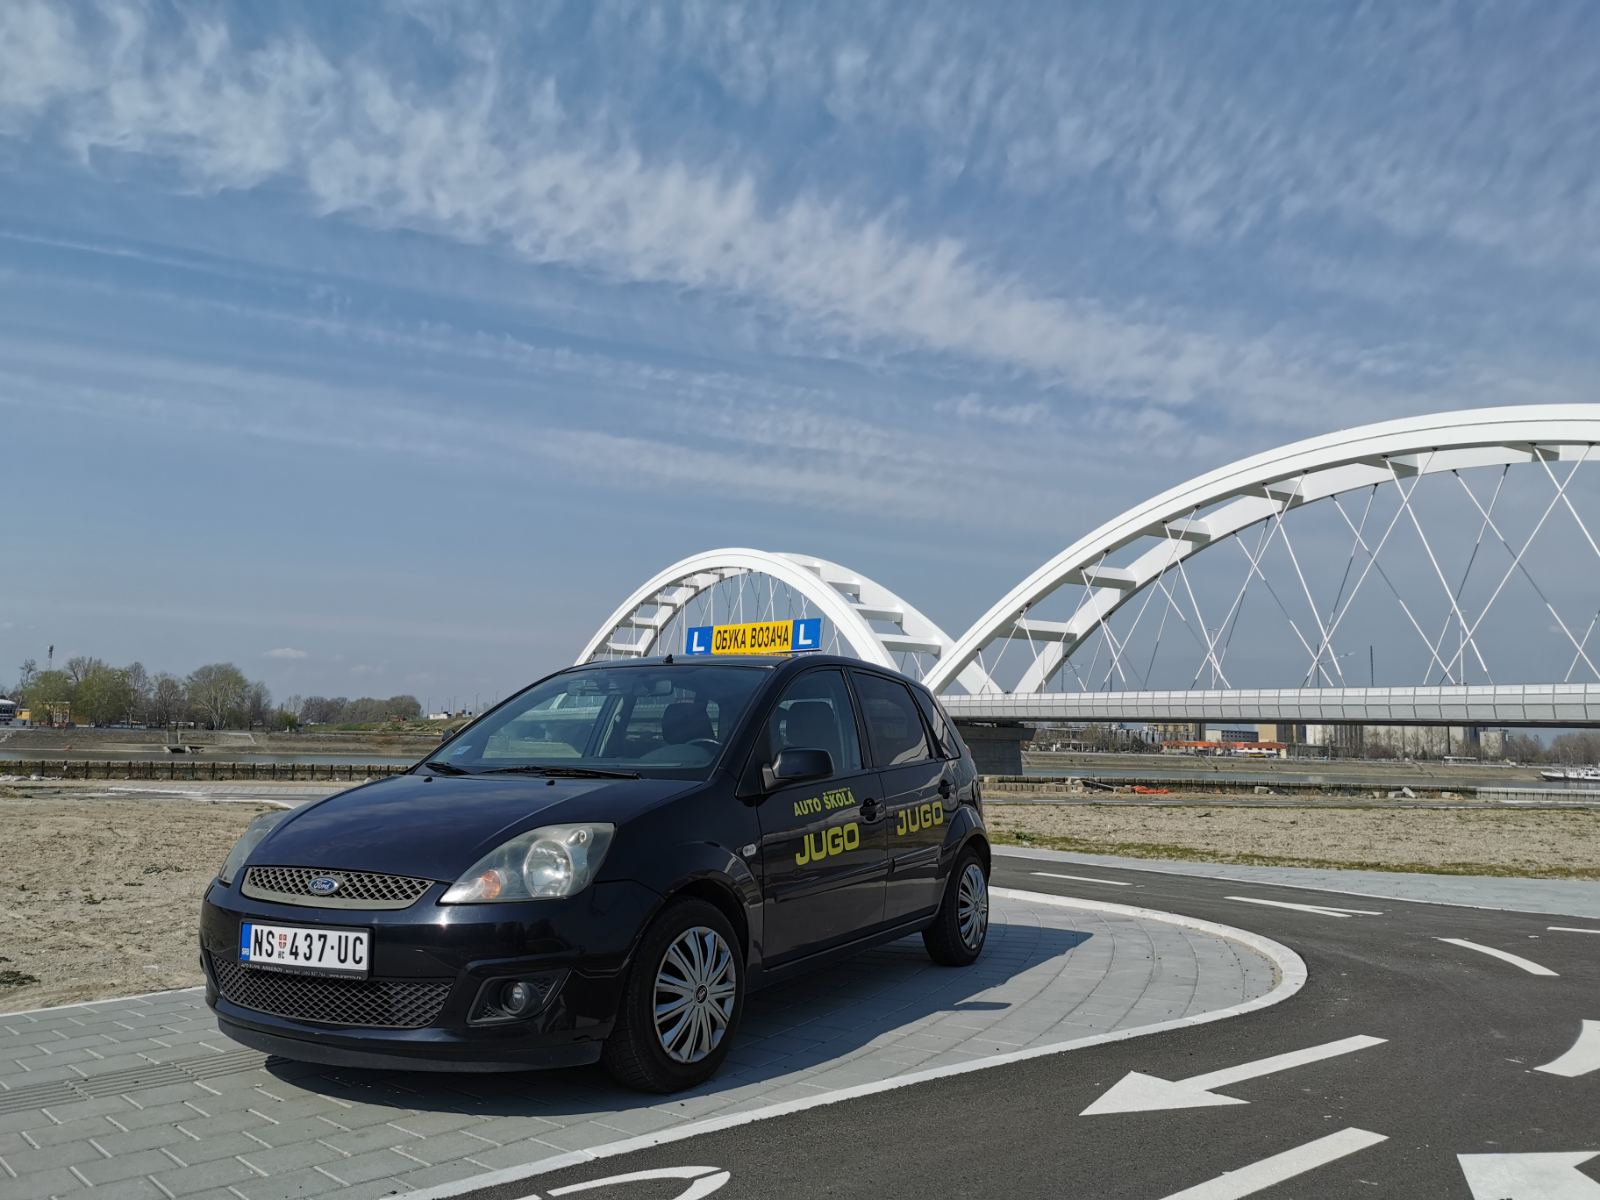
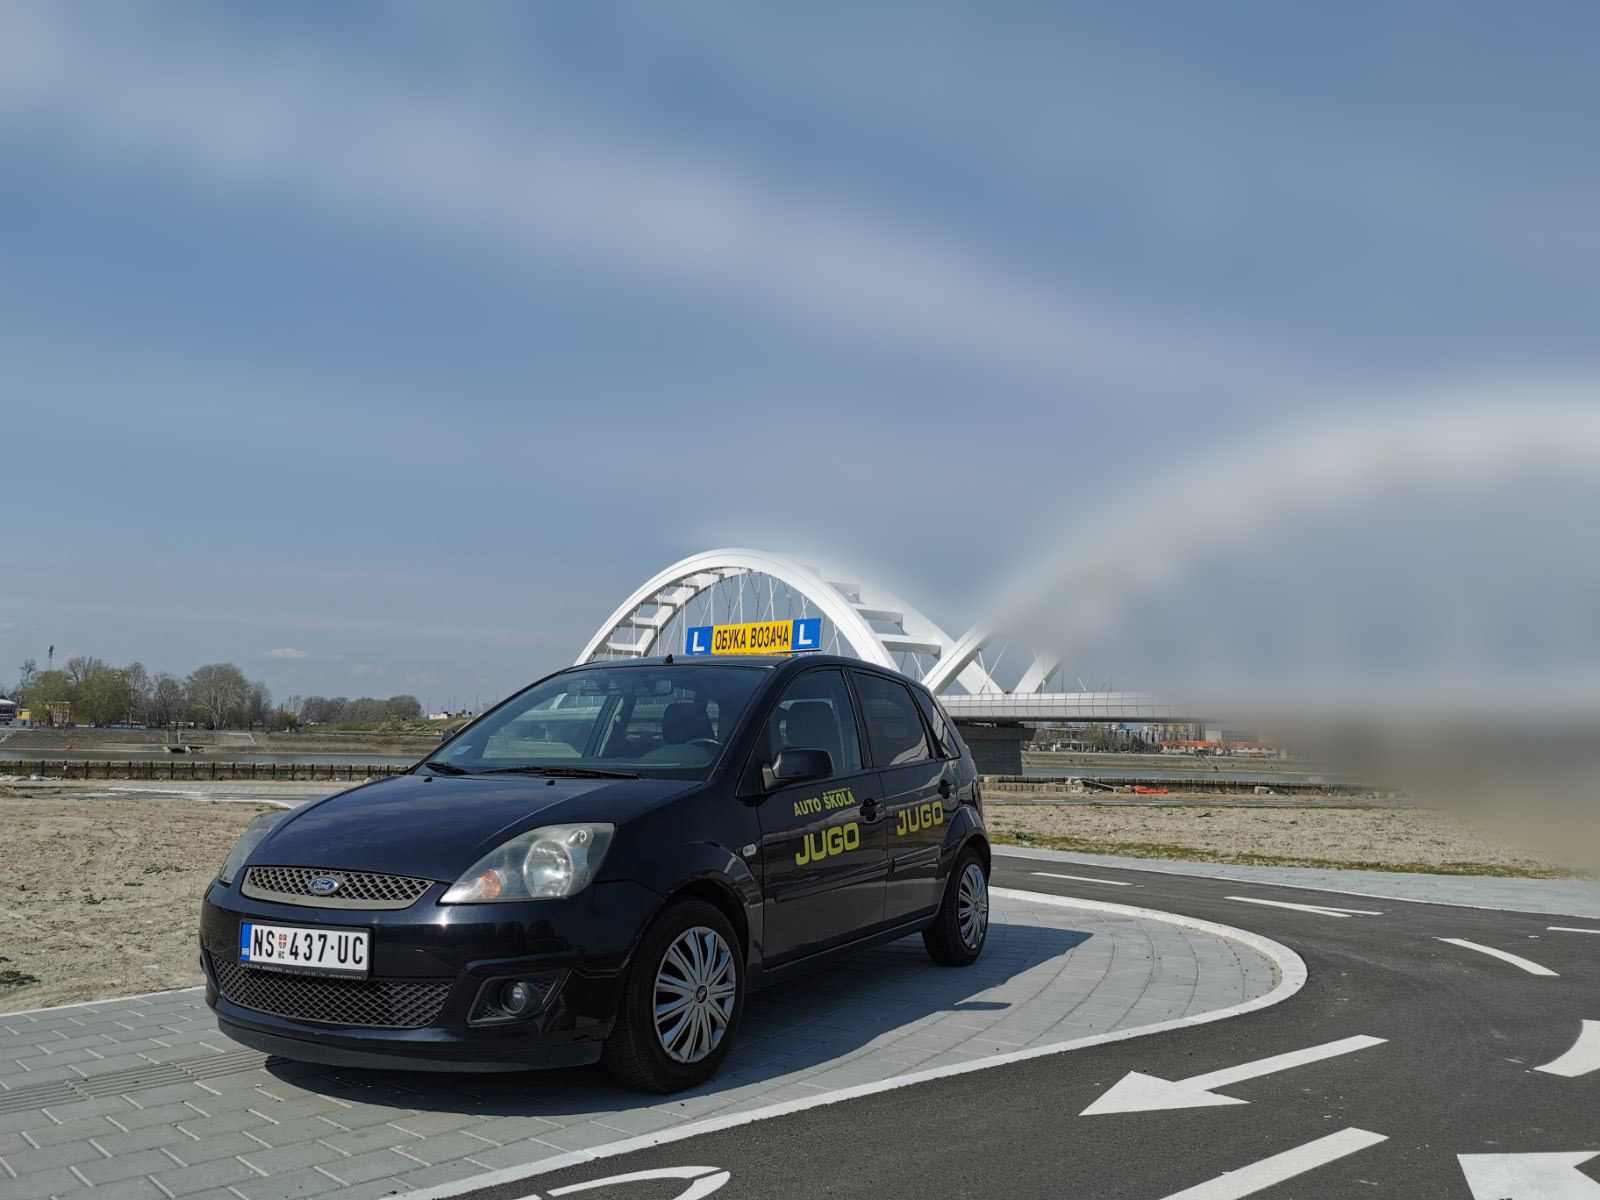
Finished slide show on main page

Changed region(s): [[0.4375, 0.3083, 1.0, 0.74], [0.4375, 0.5242, 0.5, 0.555], [0.4375, 0.1542, 0.4688, 0.185]]

diff --git a/index.html b/index.html
@@ -93,7 +93,11 @@
     <!-- Start of main content -->
     <main>
       <!-- Slide show -->
-      <div id="carouselSlideShow" class="carousel slide" data-ride="carousel">
+      <div
+        id="carouselSlideShow"
+        class="carousel slide carousel-fade"
+        data-ride="carousel"
+      >
         <ol class="carousel-indicators" style="z-index: 10;">
           <li
             data-target="#carouselSlideShow"
@@ -102,6 +106,7 @@
           ></li>
           <li data-target="#carouselSlideShow" data-slide-to="1"></li>
           <li data-target="#carouselSlideShow" data-slide-to="2"></li>
+          <li data-target="#carouselSlideShow" data-slide-to="3"></li>
         </ol>
         <div class="carousel-inner">
           <div class="carousel-item active">
@@ -128,7 +133,7 @@
             >
               <span class="text-white" style="font-size: 3.5vw;">
                 Upiši se u Jugo<br /><span
-                  class="rounded text-white ml-2"
+                  class="rounded text-white px-1 pb-1"
                   style="background-color: #2B7BC2;"
                   ><code class="text-white">da ne čekaš dugo</code></span
                 >
@@ -138,7 +143,7 @@
               <a
                 href="apply.html"
                 class="btn btn-outline-light mt-auto"
-                style="font-size: 1vw;"
+                style="font-size: 1.5vw;"
               >
                 Prijavi se</a
               >
@@ -149,7 +154,7 @@
             >
               <span class="h2">
                 Upiši se u Jugo<br /><span
-                  class="rounded text-white ml-2"
+                  class="rounded text-white px-1 pb-1"
                   style="background-color: #2B7BC2;"
                   ><code class="text-white p-1">da ne čekaš dugo</code></span
                 >
@@ -160,39 +165,41 @@
             <img
               src="./assets/images/slide2-edge-blur.png"
               class="d-none d-lg-block"
-              style="z-index: 5; position: absolute; width: 60%;float: right; max-width: 1100px; height: 24rem; object-fit: cover; object-position: 23% 90%;"
+              style="z-index: 5; position: absolute; right: 0; width: 60%; max-width: 1100px; height: 24rem; object-fit: cover; object-position: 25% 90%;"
               alt=""
             />
             <img
               src="./assets/images/slide2.jpg"
               class="d-block d-lg-none w-100"
-              style="z-index: 5; position: absolute; height: 24rem; object-fit: cover; object-position: 23% 90%;"
+              style="z-index: 5; position: absolute; height: 24rem; object-fit: cover; object-position: 25% 90%;"
               alt=""
             />
 
             <div
               class="w-100"
-              style="z-index: 1;height: 24rem; background-image: url(./assets/images/slide2-blured.jpg); background-size: cover; background-position: 23% 90%;"
+              style="z-index: 1; height: 24rem; background-image: url(./assets/images/slide2-blured.jpg); background-size: cover; background-position: 25% 90%;"
             ></div>
             <div
-              class="carousel-caption ml-auto d-none d-lg-block"
-              style="right: 2.5%; top: 50%; bottom: initial; transform: translateY(-50%); max-width: 40%;"
+              class="carousel-caption mr-auto d-none d-lg-block"
+              style="left: 2.5%; top: 50%; bottom: initial; transform: translateY(-50%); max-width: 40%;"
             >
               <span class="text-white" style="font-size: 3.5vw;">
-                Upiši se u Jugo<br /><span
-                  class="rounded text-white ml-2"
+                Sa
+                <span
+                  class="rounded text-white px-1 pb-1"
                   style="background-color: #2B7BC2;"
-                  ><code class="text-white">da ne čekaš dugo</code></span
+                  ><code class="text-white p-1">osmehom</code></span
                 >
+                do<br />vozačke dozvole
               </span>
               <br />
               <br />
               <a
-                href="apply.html"
+                href="learning.html"
                 class="btn btn-outline-light mt-auto"
-                style="font-size: 1vw;"
+                style="font-size: 1.5vw;"
               >
-                Prijavi se</a
+                Obuka</a
               >
             </div>
             <div
@@ -200,11 +207,137 @@
               style="top: 0%; right: 5%; z-index: 15;"
             >
               <span class="h2">
-                Upiši se u Jugo<br /><span
-                  class="rounded text-white ml-2"
+                <span
+                  class="rounded text-white"
                   style="background-color: #2B7BC2;"
-                  ><code class="text-white p-1">da ne čekaš dugo</code></span
+                  ><code class="text-white p-1">Sa osmehom do</code></span
                 >
+                <br />
+                <span
+                  class="rounded text-white"
+                  style="background-color: #2B7BC2;"
+                  ><code class="text-white p-1">vozačke dozvole</code></span
+                >
+              </span>
+            </div>
+          </div>
+          <div class="carousel-item">
+            <img
+              src="./assets/images/car1-edge-blur.png"
+              class="d-none d-lg-block"
+              style="z-index: 5; position: absolute; left: 50%; -webkit-transform: translateX(-50%); transform: translateX(-50%); width: 60%; max-width: 1100px; height: 24rem; object-fit: cover; object-position: 60% 90%;"
+              alt=""
+            />
+            <img
+              src="./assets/images/car1.jpg"
+              class="d-block d-lg-none w-100"
+              style="z-index: 5; position: absolute; height: 24rem; object-fit: cover; object-position: 60% 90%;"
+              alt=""
+            />
+
+            <div
+              class="w-100"
+              style="z-index: 1; height: 24rem; background-image: url(./assets/images/car1-blured.jpg); background-size: cover; background-position: 60% 90%;"
+            ></div>
+            <div
+              class="carousel-caption mr-auto d-none d-lg-block text-left"
+              style="left: 4%; top: 50%; bottom: initial; transform: translateY(-50%); max-width: 20%;"
+            >
+              <span class="text-white" style="font-size: 3vw;">
+                <span
+                  class="rounded text-white px-1 pb-1"
+                  style="background-color: #2B7BC2;"
+                  ><code class="text-white">Naučite</code></span
+                >
+                da <br />
+                vozite
+              </span>
+            </div>
+            <div
+              class="carousel-caption ml-auto d-none d-lg-block text-right"
+              style="right: 2%; top: 50%; bottom: initial; transform: translateY(-50%); max-width: 20%;"
+            >
+              <span class="text-white" style="font-size: 3vw;">
+                da vas drugi <br />
+                <span
+                  class="rounded text-white px-1 pb-1"
+                  style="background-color: #2B7BC2;"
+                  ><code class="text-white">ne bi vozali</code></span
+                >
+              </span>
+            </div>
+            <div
+              class="carousel-caption ml-auto d-block d-lg-none text-center text-md-right"
+              style="top: 0%; right: 5%; z-index: 15;"
+            >
+              <span class="h2">
+                <span
+                  class="rounded text-white"
+                  style="background-color: #2B7BC2;"
+                  ><code class="text-white p-1">Sa osmehom do</code></span
+                >
+                <br />
+                <span
+                  class="rounded text-white"
+                  style="background-color: #2B7BC2;"
+                  ><code class="text-white p-1">vozačke dozvole</code></span
+                >
+              </span>
+            </div>
+          </div>
+          <div class="carousel-item">
+            <img
+              src="./assets/images/slide4-edge-blur.png"
+              class="d-none d-lg-block"
+              style="z-index: 5; position: absolute; right: 0; width: 60%; max-width: 950px; height: 24rem; object-fit: cover; object-position: 65% 50%;"
+              alt=""
+            />
+            <img
+              src="./assets/images/slide4.jpg"
+              class="d-block d-lg-none w-100"
+              style="z-index: 5; position: absolute; height: 24rem; object-fit: cover; object-position: 65% 50%;"
+              alt=""
+            />
+
+            <div
+              class="w-100"
+              style="z-index: 1; height: 24rem; background-image: url(./assets/images/slide4-blured.jpg); background-size: cover; background-position: 65% 50%;"
+            ></div>
+            <div
+              class="carousel-caption mr-auto d-none d-lg-block"
+              style="left: 5%; top: 50%; bottom: initial; transform: translateY(-50%); max-width: 35%;"
+            >
+              <span class="text-white" style="font-size: 3.5vw;">
+                Čak
+                <span
+                  class="rounded text-white px-1 pb-1"
+                  style="background-color: #2B7BC2;"
+                  ><code class="text-white p-1">80%</code></span
+                >
+                kandidata<br />upisano po preporuci
+              </span>
+              <br />
+              <br />
+              <a
+                href="applys.html"
+                class="btn btn-outline-light mt-auto"
+                style="font-size: 1.5vw;"
+              >
+                Prijavi se</a
+              >
+            </div>
+            <div
+              class="carousel-caption mr-auto d-block d-lg-none text-left"
+              style="top: 0%; left: 5%; z-index: 15;"
+            >
+              <span class="h2">
+                Čak
+                <span
+                  class="rounded text-white px-1 pb-1"
+                  style="background-color: #2B7BC2;"
+                  ><code class="text-white p-1">80%</code></span
+                >
+                kandidata<br />upisano po preporuci
               </span>
             </div>
           </div>
@@ -214,6 +347,7 @@
           href="#carouselSlideShow"
           role="button"
           data-slide="prev"
+          style="z-index: 5;"
         >
           <span class="carousel-control-prev-icon" aria-hidden="true"></span>
           <span class="sr-only">Previous</span>
@@ -223,6 +357,7 @@
           href="#carouselSlideShow"
           role="button"
           data-slide="next"
+          style="z-index: 5;"
         >
           <span class="carousel-control-next-icon" aria-hidden="true"></span>
           <span class="sr-only">Next</span>
